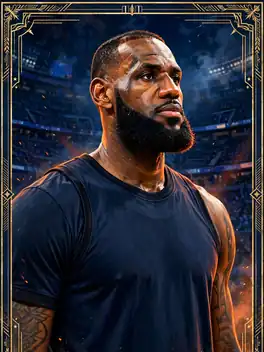
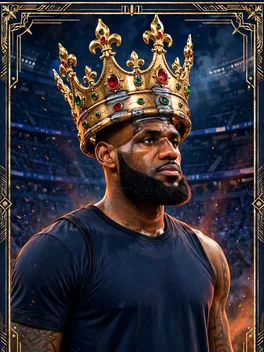
Rap sample v2.4: SSSS crowned LeBron (all 99, Geju 0), two Currys split (rookie A/65 + green S/Geju 100), fat rapper Zhang Chi, 4 new meme guests (Ikun, Ma Baoguo, AI itself, Auntie Liu), cameo events, opp bases +1 rebalance

diff --git a/rap-sample/rap_data.js b/rap-sample/rap_data.js
@@ -1,2 +1,2 @@
 // Generated by gen_data.py from Juxing 90-player pool. Do not hand-edit; edit gen_data.py.
-window.RAP_DATA = {"players": [{"name": "魔术师约翰逊", "team": "80年代队", "tier": "SS", "portrait": "por-00.webp", "note": "Showtime 发动机，传球天花板", "rap": [98, 72, 95, 90, 98, 90, 92, 92, 84, 94, 99, 85]}, {"name": "拉里·伯德", "team": "80年代队", "tier": "S", "portrait": "por-01.webp", "note": "全能锋线鼻祖，中投与球商双绝", "rap": [90, 90, 83, 86, 96, 82, 93, 80, 66, 84, 96, 78]}, {"name": "卡里姆·贾巴尔", "team": "80年代队", "tier": "S", "portrait": "por-02.webp", "note": "天勾，历史得分王底蕴", "rap": [82, 42, 69, 77, 89, 89, 90, 69, 83, 79, 93, 80]}, {"name": "伊塞亚·托马斯", "team": "80年代队", "tier": "A", "portrait": "por-03.webp", "note": "微笑刺客，小个控卫的硬度标杆", "rap": [87, 66, 89, 85, 87, 85, 83, 87, 68, 85, 87, 62]}, {"name": "朱利叶斯·欧文", "team": "80年代队", "tier": "A", "portrait": "por-04.webp", "note": "J 博士，飞翔美学的源头", "rap": [76, 50, 78, 78, 80, 84, 82, 82, 88, 84, 84, 76]}, {"name": "摩西·马龙", "team": "80年代队", "tier": "B", "portrait": "por-05.webp", "note": "篮板野兽，三届 MVP", "rap": [58, 30, 47, 62, 69, 82, 70, 54, 73, 68, 73, 70]}, {"name": "凯文·麦克海尔", "team": "80年代队", "tier": "B", "portrait": "por-06.webp", "note": "低位脚步教科书", "rap": [61, 30, 56, 66, 82, 78, 76, 57, 69, 64, 69, 72]}, {"name": "詹姆斯·沃西", "team": "80年代队", "tier": "B", "portrait": "por-07.webp", "note": "快攻终结点，眼镜蛇", "rap": [64, 38, 67, 67, 71, 76, 70, 72, 78, 72, 67, 74]}, {"name": "罗伯特·帕里什", "team": "80年代队", "tier": "B", "portrait": "por-08.webp", "note": "酋长，绿军铁三角的沉默中锋", "rap": [55, 30, 44, 58, 68, 79, 67, 47, 66, 57, 64, 72]}, {"name": "多米尼克·威尔金斯", "team": "80年代队", "tier": "B", "portrait": "por-09.webp", "note": "人类电影精华，扣篮与得分", "rap": [58, 52, 68, 66, 68, 76, 67, 72, 84, 69, 63, 70]}, {"name": "阿历克斯·英格利什", "team": "80年代队", "tier": "B", "portrait": "por-10.webp", "note": "得分机器，掘金队史标杆", "rap": [65, 41, 71, 67, 74, 78, 72, 72, 67, 70, 67, 73]}, {"name": "克里斯·穆林", "team": "80年代队", "tier": "B", "portrait": "por-11.webp", "note": "上帝左手，梦一队射手", "rap": [69, 81, 72, 74, 79, 77, 74, 71, 52, 69, 68, 76]}, {"name": "比尔·兰比尔", "team": "80年代队", "tier": "C", "portrait": "por-12.webp", "note": "坏小子军团的恶人，争议拉满型模板", "rap": [50, 38, 38, 51, 64, 69, 58, 34, 45, 44, 57, 38]}, {"name": "乔·杜马斯", "team": "80年代队", "tier": "C", "portrait": "por-13.webp", "note": "活塞冠军后场，攻防均衡", "rap": [64, 65, 70, 71, 72, 72, 70, 68, 50, 66, 67, 78]}, {"name": "拜伦·斯科特", "team": "80年代队", "tier": "C", "portrait": "por-14.webp", "note": "Showtime 的侧翼射手", "rap": [50, 68, 63, 59, 60, 70, 60, 64, 56, 58, 51, 72]}, {"name": "迈克尔·乔丹", "team": "90年代队", "tier": "SS", "portrait": "por-15.webp", "note": "篮球之神，全表标尺", "rap": [92, 81, 96, 96, 97, 97, 98, 98, 99, 98, 99, 72]}, {"name": "哈基姆·奥拉朱旺", "team": "90年代队", "tier": "S", "portrait": "por-16.webp", "note": "大梦脚步，封盖历史第一", "rap": [78, 44, 67, 86, 89, 87, 82, 70, 87, 80, 89, 80]}, {"name": "卡尔·马龙", "team": "90年代队", "tier": "S", "portrait": "por-17.webp", "note": "邮差，力量与铁人属性", "rap": [78, 33, 67, 78, 83, 94, 87, 74, 85, 84, 91, 58]}, {"name": "大卫·罗宾逊", "team": "90年代队", "tier": "A", "portrait": "por-18.webp", "note": "海军上将，全能中锋", "rap": [72, 30, 59, 74, 81, 85, 82, 65, 84, 77, 85, 82]}, {"name": "查尔斯·巴克利", "team": "90年代队", "tier": "A", "portrait": "por-19.webp", "note": "飞猪，矮个大前锋的极限", "rap": [77, 56, 74, 76, 80, 84, 80, 78, 84, 82, 84, 66]}, {"name": "约翰·斯托克顿", "team": "90年代队", "tier": "A", "portrait": "por-20.webp", "note": "助攻抢断双史一，控卫模板", "rap": [89, 79, 89, 91, 91, 87, 83, 85, 49, 82, 85, 82]}, {"name": "斯科蒂·皮蓬", "team": "90年代队", "tier": "A", "portrait": "por-21.webp", "note": "历史最强二当家，防守大闸", "rap": [78, 69, 79, 87, 85, 87, 78, 81, 83, 80, 79, 74]}, {"name": "帕特里克·尤因", "team": "90年代队", "tier": "B", "portrait": "por-22.webp", "note": "纽约中锋，无冕代表", "rap": [62, 30, 47, 62, 71, 76, 77, 52, 73, 66, 76, 70]}, {"name": "雷吉·米勒", "team": "90年代队", "tier": "C", "portrait": "por-23.webp", "note": "米勒时刻，三分与大心脏", "rap": [63, 97, 66, 62, 71, 74, 72, 68, 40, 70, 69, 68]}, {"name": "加里·佩顿", "team": "90年代队", "tier": "B", "portrait": "por-24.webp", "note": "手套，控卫防守天花板", "rap": [78, 59, 79, 79, 77, 81, 74, 76, 55, 76, 77, 60]}, {"name": "肖恩·坎普", "team": "90年代队", "tier": "B", "portrait": "por-25.webp", "note": "雨人，暴力扣篮的图腾", "rap": [49, 30, 47, 56, 60, 73, 58, 57, 82, 62, 56, 55]}, {"name": "阿伦佐·莫宁", "team": "90年代队", "tier": "C", "portrait": "por-26.webp", "note": "肾斗士，铁血封盖", "rap": [54, 30, 34, 54, 65, 70, 64, 42, 70, 60, 70, 76]}, {"name": "克莱德·德雷克斯勒", "team": "90年代队", "tier": "B", "portrait": "por-27.webp", "note": "滑翔机，80 年代末崛起、峰值多数在 90 年代", "rap": [70, 52, 74, 76, 77, 81, 74, 77, 81, 76, 72, 78]}, {"name": "迪肯贝·穆托姆博", "team": "90年代队", "tier": "B", "portrait": "por-28.webp", "note": "摇手指，四届最佳防守", "rap": [44, 30, 30, 48, 58, 69, 49, 30, 58, 44, 56, 82]}, {"name": "蒂姆·哈达威", "team": "90年代队", "tier": "C", "portrait": "por-29.webp", "note": "变向鼻祖，胯下运球招牌", "rap": [65, 66, 71, 65, 66, 69, 64, 71, 40, 66, 61, 64]}, {"name": "沙奎尔·奥尼尔", "team": "00年代队", "tier": "S", "portrait": "por-30.webp", "note": "最具统治力中锋，扣篮与力量顶点", "rap": [81, 78, 85, 74, 86, 84, 93, 85, 98, 97, 95, 80]}, {"name": "科比·布莱恩特", "team": "00年代队", "tier": "S", "portrait": "por-31.webp", "note": "曼巴，中投与意志的图腾", "rap": [86, 84, 91, 88, 93, 95, 92, 92, 90, 91, 94, 62]}, {"name": "蒂姆·邓肯", "team": "00年代队", "tier": "S", "portrait": "por-32.webp", "note": "石佛，大基本功", "rap": [84, 34, 74, 82, 92, 87, 88, 74, 80, 81, 92, 84]}, {"name": "凯文·加内特", "team": "00年代队", "tier": "S", "portrait": "por-33.webp", "note": "狼王，全能大前与防守体系", "rap": [88, 52, 77, 86, 89, 93, 90, 78, 86, 86, 97, 64]}, {"name": "德克·诺维茨基", "team": "00年代队", "tier": "A", "portrait": "por-34.webp", "note": "金鸡独立，峰值窗口优先于国籍归队", "rap": [73, 81, 71, 70, 83, 79, 84, 69, 61, 74, 83, 83]}, {"name": "阿伦·艾弗森", "team": "00年代队", "tier": "A", "portrait": "por-35.webp", "note": "答案，小个得分手的神", "rap": [80, 72, 97, 93, 80, 88, 90, 98, 68, 95, 84, 58]}, {"name": "德怀恩·韦德", "team": "00年代队", "tier": "A", "portrait": "por-36.webp", "note": "闪电侠，2006 总决赛封神", "rap": [79, 62, 84, 81, 82, 84, 83, 86, 82, 86, 86, 80]}, {"name": "特雷西·麦克格雷迪", "team": "00年代队", "tier": "A", "portrait": "por-37.webp", "note": "35 秒 13 分，干拔美学", "rap": [76, 79, 85, 77, 81, 77, 82, 85, 87, 81, 79, 70]}, {"name": "保罗·皮尔斯", "team": "00年代队", "tier": "B", "portrait": "por-38.webp", "note": "真理，凯尔特人队魂", "rap": [76, 76, 79, 74, 81, 81, 83, 79, 68, 81, 83, 68]}, {"name": "阿玛雷·斯塔德迈尔", "team": "00年代队", "tier": "B", "portrait": "por-39.webp", "note": "小霸王，暴力终结型内线", "rap": [52, 30, 52, 56, 63, 74, 64, 62, 83, 66, 59, 62]}, {"name": "文斯·卡特", "team": "00年代队", "tier": "B", "portrait": "por-40.webp", "note": "半人半神，扣篮绝活顶格", "rap": [56, 61, 65, 58, 63, 68, 64, 68, 98, 64, 59, 76]}, {"name": "贾森·基德", "team": "00年代队", "tier": "B", "portrait": "por-41.webp", "note": "组织大师，三双型控卫", "rap": [78, 65, 78, 79, 80, 78, 72, 74, 51, 74, 76, 72]}, {"name": "雷·阿伦", "team": "00年代队", "tier": "B", "portrait": "por-42.webp", "note": "三分绝活位，历史级射手", "rap": [66, 98, 71, 66, 73, 80, 74, 71, 56, 70, 69, 82]}, {"name": "克里斯·波什", "team": "00年代队", "tier": "C", "portrait": "por-43.webp", "note": "龙王锚点，空间型内线", "rap": [56, 57, 55, 57, 69, 72, 68, 58, 67, 62, 62, 76]}, {"name": "本·华莱士", "team": "00年代队", "tier": "A", "portrait": "por-44.webp", "note": "大本，4 届最佳防守球员，防守型模板", "rap": [60, 30, 43, 71, 75, 85, 60, 44, 69, 59, 75, 74]}, {"name": "勒布朗·詹姆斯", "team": "10年代队", "tier": "SS", "portrait": "por-45.webp", "note": "全能皇帝，峰值窗口官方范例", "rap": [98, 83, 94, 92, 99, 99, 92, 96, 97, 98, 99, 84]}, {"name": "斯蒂芬·库里", "team": "10年代队", "tier": "SS", "portrait": "por-108.webp", "note": "三分革命本人，头发先绿为敬", "rap": [90, 99, 95, 88, 94, 89, 92, 92, 62, 90, 95, 99]}, {"name": "凯文·杜兰特", "team": "10年代队", "tier": "A", "portrait": "por-47.webp", "note": "死神，无差别单打", "rap": [81, 87, 85, 78, 85, 85, 87, 86, 83, 86, 85, 66]}, {"name": "科怀·伦纳德", "team": "10年代队", "tier": "A", "portrait": "por-48.webp", "note": "机器人，两冠两 FMVP 的攻防一体", "rap": [74, 78, 78, 86, 84, 80, 81, 80, 78, 80, 80, 70]}, {"name": "詹姆斯·哈登", "team": "10年代队", "tier": "A", "portrait": "por-49.webp", "note": "大胡子，持球大核心打法开创者", "rap": [84, 84, 90, 80, 86, 84, 81, 90, 72, 85, 82, 60]}, {"name": "拉塞尔·威斯布鲁克", "team": "10年代队", "tier": "A", "portrait": "por-50.webp", "note": "三双机器，能量与争议并存", "rap": [82, 63, 85, 75, 75, 91, 77, 88, 89, 84, 79, 62]}, {"name": "克里斯·保罗", "team": "10年代队", "tier": "S", "portrait": "por-51.webp", "note": "控卫之神，组织与中投", "rap": [92, 83, 94, 92, 94, 85, 91, 90, 62, 88, 94, 72]}, {"name": "卡梅隆·安东尼", "team": "10年代队", "tier": "B", "portrait": "por-52.webp", "note": "甜瓜，进攻万花筒", "rap": [66, 73, 73, 62, 73, 73, 78, 76, 71, 76, 75, 68]}, {"name": "德里克·罗斯", "team": "10年代队", "tier": "A", "portrait": "por-53.webp", "note": "风城玫瑰，2011 MVP 锚点，巅峰定值、体能短板真实写", "rap": [71, 61, 83, 71, 77, 65, 78, 85, 81, 82, 79, 78]}, {"name": "凯里·欧文", "team": "10年代队", "tier": "B", "portrait": "por-54.webp", "note": "运球与终结美学", "rap": [64, 74, 82, 64, 70, 68, 68, 78, 63, 68, 61, 56]}, {"name": "达米安·利拉德", "team": "10年代队", "tier": "B", "portrait": "por-55.webp", "note": "表哥，超远三分与绝杀", "rap": [92, 94, 96, 97, 97, 90, 92, 94, 88, 92, 88, 80]}, {"name": "吉米·巴特勒", "team": "10年代队", "tier": "B", "portrait": "por-56.webp", "note": "硬汉，季后赛档位自动 +1 的男人", "rap": [74, 56, 71, 78, 78, 80, 76, 74, 71, 78, 80, 66]}, {"name": "克莱·汤普森", "team": "10年代队", "tier": "C", "portrait": "por-57.webp", "note": "G6 汤，三分与无球防守", "rap": [52, 95, 60, 63, 64, 69, 62, 58, 43, 56, 55, 80]}, {"name": "德雷蒙德·格林", "team": "10年代队", "tier": "C", "portrait": "por-58.webp", "note": "追梦，勇士体系轴心（争议型模板）", "rap": [67, 42, 56, 70, 73, 68, 58, 52, 47, 58, 66, 45]}, {"name": "凯文·乐福", "team": "10年代队", "tier": "C", "portrait": "por-59.webp", "note": "两双机器，骑士冠军拼图", "rap": [62, 68, 51, 52, 68, 65, 66, 52, 48, 58, 63, 74]}, {"name": "尼古拉·约基奇", "team": "新世代队", "tier": "SS", "portrait": "por-60.webp", "note": "约老师，中锋组织学革命", "rap": [93, 84, 88, 86, 97, 88, 90, 82, 74, 82, 93, 78]}, {"name": "维克托·文班亚马", "team": "新世代队", "tier": "S", "portrait": "por-61.webp", "note": "外星人，潜力签·窗口未关闭", "rap": [72, 77, 70, 75, 82, 79, 76, 72, 86, 72, 76, 72]}, {"name": "扬尼斯·阿德托昆博", "team": "新世代队", "tier": "S", "portrait": "por-62.webp", "note": "字母哥，转换进攻的终极形态", "rap": [86, 64, 85, 82, 87, 93, 82, 90, 94, 92, 93, 80]}, {"name": "卢卡·东契奇", "team": "新世代队", "tier": "S", "portrait": "por-63.webp", "note": "持球大核现役版", "rap": [92, 88, 93, 82, 91, 83, 88, 91, 69, 89, 93, 70]}, {"name": "谢伊·吉尔杰斯-亚历山大", "team": "新世代队", "tier": "A", "portrait": "por-64.webp", "note": "SGA，中距离与造犯规的现代答案", "rap": [75, 69, 83, 80, 83, 81, 83, 83, 71, 81, 81, 76]}, {"name": "杰森·塔图姆", "team": "新世代队", "tier": "B", "portrait": "por-65.webp", "note": "獭兔，冠军锋线", "rap": [76, 79, 77, 72, 79, 81, 81, 79, 72, 81, 81, 74]}, {"name": "乔尔·恩比德", "team": "新世代队", "tier": "B", "portrait": "por-66.webp", "note": "大帝，健康条即战力的玻璃模板（体能短板显著）", "rap": [66, 65, 61, 64, 76, 61, 77, 66, 74, 72, 74, 60]}, {"name": "安东尼·爱德华兹", "team": "新世代队", "tier": "A", "portrait": "por-67.webp", "note": "华子，新生代门面", "rap": [73, 79, 81, 75, 75, 85, 79, 85, 89, 83, 79, 68]}, {"name": "安东尼·戴维斯", "team": "新世代队", "tier": "A", "portrait": "por-68.webp", "note": "浓眉，攻防一体内线", "rap": [72, 56, 64, 73, 80, 74, 81, 70, 82, 79, 84, 72]}, {"name": "泰雷斯·哈利伯顿", "team": "新世代队", "tier": "B", "portrait": "por-69.webp", "note": "传球魔术的现役传人", "rap": [72, 75, 77, 72, 77, 72, 68, 74, 53, 69, 66, 78]}, {"name": "杰伦·布伦森", "team": "新世代队", "tier": "B", "portrait": "por-70.webp", "note": "大头，纽约新王", "rap": [74, 70, 77, 66, 75, 77, 77, 78, 50, 78, 77, 76]}, {"name": "德文·布克", "team": "新世代队", "tier": "B", "portrait": "por-71.webp", "note": "得分后卫正统", "rap": [67, 77, 75, 64, 72, 75, 74, 76, 68, 72, 68, 70]}, {"name": "多诺万·米切尔", "team": "新世代队", "tier": "B", "portrait": "por-72.webp", "note": "蜘蛛侠，季后赛爆发户", "rap": [66, 76, 76, 66, 71, 78, 72, 78, 80, 74, 67, 72]}, {"name": "贾马尔·穆雷", "team": "新世代队", "tier": "C", "portrait": "por-73.webp", "note": "季后赛限定变身型模板", "rap": [64, 71, 69, 62, 69, 66, 68, 70, 59, 68, 64, 74]}, {"name": "卡尔-安东尼·唐斯", "team": "新世代队", "tier": "C", "portrait": "por-74.webp", "note": "空间型内线，防守是短板", "rap": [54, 71, 54, 50, 64, 69, 63, 56, 66, 58, 57, 68]}, {"name": "姚明", "team": "国际纵队", "tier": "A", "portrait": "por-75.webp", "note": "移动长城，中国篮球的图腾", "rap": [75, 30, 56, 69, 86, 70, 84, 55, 80, 68, 84, 83]}, {"name": "史蒂夫·纳什", "team": "国际纵队", "tier": "SS", "portrait": "por-76.webp", "note": "风之子，两连 MVP 的组织上限", "rap": [94, 94, 97, 84, 97, 85, 92, 91, 51, 88, 94, 84]}, {"name": "马努·吉诺比利", "team": "国际纵队", "tier": "A", "portrait": "por-77.webp", "note": "妖刀，第六人位置的传奇模板", "rap": [85, 80, 88, 85, 90, 80, 83, 88, 78, 86, 86, 82]}, {"name": "保罗·加索尔", "team": "国际纵队", "tier": "A", "portrait": "por-78.webp", "note": "家嫂，策应型内线", "rap": [80, 52, 68, 72, 86, 78, 82, 67, 72, 73, 82, 80]}, {"name": "托尼·帕克", "team": "国际纵队", "tier": "A", "portrait": "por-79.webp", "note": "法国跑车，总决赛 MVP 控卫", "rap": [78, 56, 82, 72, 80, 80, 78, 84, 54, 81, 78, 76]}, {"name": "德拉岑·彼得罗维奇", "team": "国际纵队", "tier": "A", "portrait": "por-80.webp", "note": "篮球莫扎特，英年早逝的传奇", "rap": [73, 86, 80, 72, 82, 76, 80, 79, 52, 76, 76, 74]}, {"name": "马克·加索尔", "team": "国际纵队", "tier": "B", "portrait": "por-81.webp", "note": "小加，防守中枢＋策应", "rap": [75, 57, 59, 70, 83, 72, 74, 58, 61, 66, 74, 78]}, {"name": "王治郅", "team": "国际纵队", "tier": "C", "portrait": "por-82.webp", "note": "大郅，中国登陆 NBA 第一人，脚步内线", "rap": [46, 57, 47, 48, 62, 59, 60, 51, 50, 52, 50, 76]}, {"name": "易建联", "team": "国际纵队", "tier": "C", "portrait": "por-83.webp", "note": "阿联，空间型大前，中国男篮旗帜十年", "rap": [48, 58, 48, 53, 65, 70, 62, 56, 72, 60, 55, 78]}, {"name": "阿维达斯·萨博尼斯", "team": "国际纵队", "tier": "C", "portrait": "por-84.webp", "note": "老萨，世界屋脊的传球中锋", "rap": [69, 47, 45, 57, 74, 57, 66, 48, 57, 56, 62, 72]}, {"name": "路易斯·斯科拉", "team": "国际纵队", "tier": "C", "portrait": "por-85.webp", "note": "钻石，阿根廷黄金一代的轴", "rap": [55, 30, 49, 59, 71, 66, 66, 54, 54, 59, 59, 78]}, {"name": "安德烈·基里连科", "team": "国际纵队", "tier": "C", "portrait": "por-86.webp", "note": "AK47，全能防守的瑞士军刀", "rap": [56, 39, 61, 72, 68, 70, 56, 62, 65, 58, 53, 70]}, {"name": "佩德拉格·斯托亚科维奇", "team": "国际纵队", "tier": "C", "portrait": "por-87.webp", "note": "佩贾，纯射手位", "rap": [50, 73, 56, 54, 63, 63, 61, 55, 35, 52, 51, 74]}, {"name": "鲍里斯·迪奥", "team": "国际纵队", "tier": "C", "portrait": "por-88.webp", "note": "法国魔术师，什么都能打一点", "rap": [58, 46, 61, 57, 68, 61, 54, 58, 44, 52, 51, 76]}, {"name": "孙悦", "team": "国际纵队", "tier": "C", "portrait": "por-89.webp", "note": "孙大圣，中国后卫的 NBA 冠军戒指（话题型模板）", "rap": [52, 49, 61, 60, 58, 66, 52, 61, 63, 55, 49, 72]}, {"name": "奥斯卡·罗伯特森", "team": "60年代队", "tier": "S", "portrait": "por-90.webp", "note": "大O，三双鼻祖", "rap": [94, 55, 92, 87, 96, 90, 90, 90, 72, 90, 96, 74]}, {"name": "杰里·韦斯特", "team": "60年代队", "tier": "S", "portrait": "por-91.webp", "note": "Logo本人，关键先生", "rap": [89, 68, 88, 88, 95, 88, 92, 86, 62, 88, 94, 80]}, {"name": "丹尼斯·罗德曼", "team": "90年代队", "tier": "A", "portrait": "por-92.webp", "note": "大虫，篮板与花活之王", "rap": [55, 30, 50, 65, 70, 96, 50, 52, 92, 95, 57, 40]}, {"name": "比尔·拉塞尔", "team": "60年代队", "tier": "SS", "portrait": "por-93.webp", "note": "指环王，团队至上", "rap": [85, 30, 55, 83, 96, 90, 79, 58, 80, 79, 99, 84]}, {"name": "威尔特·张伯伦", "team": "60年代队", "tier": "SS", "portrait": "por-94.webp", "note": "单场100分，数据怪兽", "rap": [80, 30, 60, 72, 85, 99, 75, 68, 95, 80, 89, 62]}, {"name": "克里斯·韦伯", "team": "00年代队", "tier": "A", "portrait": "por-95.webp", "note": "国王华丽大前，传球内线", "rap": [84, 55, 75, 80, 90, 82, 81, 75, 85, 78, 82, 70]}, {"name": "德怀特·霍华德", "team": "00年代队", "tier": "S", "portrait": "por-96.webp", "note": "魔兽，快乐与统治力", "rap": [65, 30, 50, 68, 75, 90, 62, 60, 97, 90, 79, 72]}, {"name": "拉简·隆多", "team": "00年代队", "tier": "A", "portrait": "por-97.webp", "note": "隆指导，大脑型控卫", "rap": [84, 55, 90, 91, 97, 82, 68, 84, 55, 75, 74, 55]}, {"name": "特雷·杨", "team": "新世代队", "tier": "A", "portrait": "por-98.webp", "note": "吹杨，超远三分与挑衅", "rap": [84, 88, 90, 72, 85, 78, 78, 88, 50, 88, 77, 64]}, {"name": "贾·莫兰特", "team": "新世代队", "tier": "A", "portrait": "por-99.webp", "note": "腰王，飞天遁地", "rap": [76, 68, 90, 72, 80, 85, 70, 92, 96, 82, 72, 42]}, {"name": "杰伦·布朗", "team": "新世代队", "tier": "S", "portrait": "por-100.webp", "note": "FMVP，攻防一体", "rap": [77, 78, 80, 82, 85, 90, 82, 84, 88, 85, 86, 78]}, {"name": "锡安·威廉姆森", "team": "新世代队", "tier": "A", "portrait": "por-101.webp", "note": "胖虎，纯爆发", "rap": [71, 45, 75, 75, 80, 78, 68, 84, 99, 82, 74, 60]}, {"name": "泰瑞斯·马克西", "team": "新世代队", "tier": "A", "portrait": "por-102.webp", "note": "速度与笑容都拉满", "rap": [75, 80, 85, 76, 82, 88, 78, 88, 70, 82, 77, 76]}, {"name": "切特·霍姆格伦", "team": "新世代队", "tier": "B", "portrait": "por-103.webp", "note": "瘦长护筐，文班的老对手", "rap": [68, 72, 65, 72, 85, 76, 72, 65, 80, 68, 70, 72]}, {"name": "保罗·班凯罗", "team": "新世代队", "tier": "A", "portrait": "por-104.webp", "note": "状元锋线，全能身手", "rap": [78, 62, 78, 76, 86, 85, 78, 82, 82, 82, 80, 74]}, {"name": "周琦", "team": "国际纵队", "tier": "B", "portrait": "por-105.webp", "note": "大魔王", "rap": [58, 55, 45, 61, 72, 70, 65, 48, 75, 58, 65, 68]}, {"name": "杨瀚森", "team": "国际纵队", "tier": "B", "portrait": "por-106.webp", "note": "中国新星内线，传球有灵气", "rap": [73, 60, 60, 68, 82, 72, 69, 58, 70, 62, 68, 74]}, {"name": "曾凡博", "team": "国际纵队", "tier": "C", "portrait": "por-107.webp", "note": "追梦少年，锋线射手", "rap": [58, 72, 60, 66, 72, 75, 65, 62, 78, 62, 60, 72]}, {"name": "PG ONE", "team": "整活嘉宾队", "tier": "S", "portrait": "por-109.webp", "note": "冠军本冠。形象是助手瞎编的，严肃脸", "rap": [86, 70, 96, 94, 96, 88, 84, 94, 70, 90, 92, 36]}, {"name": "阿耶莎", "team": "整活嘉宾队", "tier": "A", "portrait": "por-110.webp", "note": "跨界嘉宾，厨艺是有证的，唱功是来凑热闹的", "rap": [72, 48, 55, 56, 72, 70, 70, 52, 35, 86, 90, 82]}, {"name": "假乃亮", "team": "整活嘉宾队", "tier": "A", "portrait": "por-111.webp", "note": "郑重声明：假的！和本人没关系，就是瞧着眼熟", "rap": [74, 55, 78, 62, 68, 80, 97, 88, 60, 78, 84, 48]}, {"name": "李小鹿", "team": "整活嘉宾队", "tier": "B", "portrait": "por-112.webp", "note": "一只鹿。别问，问就是李小鹿", "rap": [42, 32, 60, 58, 45, 95, 40, 72, 88, 78, 50, 66]}, {"name": "张驰", "team": "整活嘉宾队", "tier": "B", "portrait": "por-113.webp", "note": "一个不知名的rap手", "rap": [71, 60, 75, 68, 80, 78, 68, 72, 55, 84, 70, 58]}]};
+window.RAP_DATA = {"players": [{"name": "魔术师约翰逊", "team": "80年代队", "tier": "SS", "portrait": "por-00.webp", "note": "Showtime 发动机，传球天花板", "rap": [98, 72, 95, 90, 98, 90, 92, 92, 84, 94, 99, 85]}, {"name": "拉里·伯德", "team": "80年代队", "tier": "S", "portrait": "por-01.webp", "note": "全能锋线鼻祖，中投与球商双绝", "rap": [90, 90, 83, 86, 96, 82, 93, 80, 66, 84, 96, 78]}, {"name": "卡里姆·贾巴尔", "team": "80年代队", "tier": "S", "portrait": "por-02.webp", "note": "天勾，历史得分王底蕴", "rap": [82, 42, 69, 77, 89, 89, 90, 69, 83, 79, 93, 80]}, {"name": "伊塞亚·托马斯", "team": "80年代队", "tier": "A", "portrait": "por-03.webp", "note": "微笑刺客，小个控卫的硬度标杆", "rap": [87, 66, 89, 85, 87, 85, 83, 87, 68, 85, 87, 62]}, {"name": "朱利叶斯·欧文", "team": "80年代队", "tier": "A", "portrait": "por-04.webp", "note": "J 博士，飞翔美学的源头", "rap": [76, 50, 78, 78, 80, 84, 82, 82, 88, 84, 84, 76]}, {"name": "摩西·马龙", "team": "80年代队", "tier": "B", "portrait": "por-05.webp", "note": "篮板野兽，三届 MVP", "rap": [58, 30, 47, 62, 69, 82, 70, 54, 73, 68, 73, 70]}, {"name": "凯文·麦克海尔", "team": "80年代队", "tier": "B", "portrait": "por-06.webp", "note": "低位脚步教科书", "rap": [61, 30, 56, 66, 82, 78, 76, 57, 69, 64, 69, 72]}, {"name": "詹姆斯·沃西", "team": "80年代队", "tier": "B", "portrait": "por-07.webp", "note": "快攻终结点，眼镜蛇", "rap": [64, 38, 67, 67, 71, 76, 70, 72, 78, 72, 67, 74]}, {"name": "罗伯特·帕里什", "team": "80年代队", "tier": "B", "portrait": "por-08.webp", "note": "酋长，绿军铁三角的沉默中锋", "rap": [55, 30, 44, 58, 68, 79, 67, 47, 66, 57, 64, 72]}, {"name": "多米尼克·威尔金斯", "team": "80年代队", "tier": "B", "portrait": "por-09.webp", "note": "人类电影精华，扣篮与得分", "rap": [58, 52, 68, 66, 68, 76, 67, 72, 84, 69, 63, 70]}, {"name": "阿历克斯·英格利什", "team": "80年代队", "tier": "B", "portrait": "por-10.webp", "note": "得分机器，掘金队史标杆", "rap": [65, 41, 71, 67, 74, 78, 72, 72, 67, 70, 67, 73]}, {"name": "克里斯·穆林", "team": "80年代队", "tier": "B", "portrait": "por-11.webp", "note": "上帝左手，梦一队射手", "rap": [69, 81, 72, 74, 79, 77, 74, 71, 52, 69, 68, 76]}, {"name": "比尔·兰比尔", "team": "80年代队", "tier": "C", "portrait": "por-12.webp", "note": "坏小子军团的恶人，争议拉满型模板", "rap": [50, 38, 38, 51, 64, 69, 58, 34, 45, 44, 57, 38]}, {"name": "乔·杜马斯", "team": "80年代队", "tier": "C", "portrait": "por-13.webp", "note": "活塞冠军后场，攻防均衡", "rap": [64, 65, 70, 71, 72, 72, 70, 68, 50, 66, 67, 78]}, {"name": "拜伦·斯科特", "team": "80年代队", "tier": "C", "portrait": "por-14.webp", "note": "Showtime 的侧翼射手", "rap": [50, 68, 63, 59, 60, 70, 60, 64, 56, 58, 51, 72]}, {"name": "迈克尔·乔丹", "team": "90年代队", "tier": "SS", "portrait": "por-15.webp", "note": "篮球之神，全表标尺", "rap": [92, 81, 96, 96, 97, 97, 98, 98, 99, 98, 99, 72]}, {"name": "哈基姆·奥拉朱旺", "team": "90年代队", "tier": "S", "portrait": "por-16.webp", "note": "大梦脚步，封盖历史第一", "rap": [78, 44, 67, 86, 89, 87, 82, 70, 87, 80, 89, 80]}, {"name": "卡尔·马龙", "team": "90年代队", "tier": "S", "portrait": "por-17.webp", "note": "邮差，力量与铁人属性", "rap": [78, 33, 67, 78, 83, 94, 87, 74, 85, 84, 91, 58]}, {"name": "大卫·罗宾逊", "team": "90年代队", "tier": "A", "portrait": "por-18.webp", "note": "海军上将，全能中锋", "rap": [72, 30, 59, 74, 81, 85, 82, 65, 84, 77, 85, 82]}, {"name": "查尔斯·巴克利", "team": "90年代队", "tier": "A", "portrait": "por-19.webp", "note": "飞猪，矮个大前锋的极限", "rap": [77, 56, 74, 76, 80, 84, 80, 78, 84, 82, 84, 66]}, {"name": "约翰·斯托克顿", "team": "90年代队", "tier": "A", "portrait": "por-20.webp", "note": "助攻抢断双史一，控卫模板", "rap": [89, 79, 89, 91, 91, 87, 83, 85, 49, 82, 85, 82]}, {"name": "斯科蒂·皮蓬", "team": "90年代队", "tier": "A", "portrait": "por-21.webp", "note": "历史最强二当家，防守大闸", "rap": [78, 69, 79, 87, 85, 87, 78, 81, 83, 80, 79, 74]}, {"name": "帕特里克·尤因", "team": "90年代队", "tier": "B", "portrait": "por-22.webp", "note": "纽约中锋，无冕代表", "rap": [62, 30, 47, 62, 71, 76, 77, 52, 73, 66, 76, 70]}, {"name": "雷吉·米勒", "team": "90年代队", "tier": "C", "portrait": "por-23.webp", "note": "米勒时刻，三分与大心脏", "rap": [63, 97, 66, 62, 71, 74, 72, 68, 40, 70, 69, 68]}, {"name": "加里·佩顿", "team": "90年代队", "tier": "B", "portrait": "por-24.webp", "note": "手套，控卫防守天花板", "rap": [78, 59, 79, 79, 77, 81, 74, 76, 55, 76, 77, 60]}, {"name": "肖恩·坎普", "team": "90年代队", "tier": "B", "portrait": "por-25.webp", "note": "雨人，暴力扣篮的图腾", "rap": [49, 30, 47, 56, 60, 73, 58, 57, 82, 62, 56, 55]}, {"name": "阿伦佐·莫宁", "team": "90年代队", "tier": "C", "portrait": "por-26.webp", "note": "肾斗士，铁血封盖", "rap": [54, 30, 34, 54, 65, 70, 64, 42, 70, 60, 70, 76]}, {"name": "克莱德·德雷克斯勒", "team": "90年代队", "tier": "B", "portrait": "por-27.webp", "note": "滑翔机，80 年代末崛起、峰值多数在 90 年代", "rap": [70, 52, 74, 76, 77, 81, 74, 77, 81, 76, 72, 78]}, {"name": "迪肯贝·穆托姆博", "team": "90年代队", "tier": "B", "portrait": "por-28.webp", "note": "摇手指，四届最佳防守", "rap": [44, 30, 30, 48, 58, 69, 49, 30, 58, 44, 56, 82]}, {"name": "蒂姆·哈达威", "team": "90年代队", "tier": "C", "portrait": "por-29.webp", "note": "变向鼻祖，胯下运球招牌", "rap": [65, 66, 71, 65, 66, 69, 64, 71, 40, 66, 61, 64]}, {"name": "沙奎尔·奥尼尔", "team": "00年代队", "tier": "S", "portrait": "por-30.webp", "note": "最具统治力中锋，扣篮与力量顶点", "rap": [81, 78, 85, 74, 86, 84, 93, 85, 98, 97, 95, 80]}, {"name": "科比·布莱恩特", "team": "00年代队", "tier": "S", "portrait": "por-31.webp", "note": "曼巴，中投与意志的图腾", "rap": [86, 84, 91, 88, 93, 95, 92, 92, 90, 91, 94, 62]}, {"name": "蒂姆·邓肯", "team": "00年代队", "tier": "S", "portrait": "por-32.webp", "note": "石佛，大基本功", "rap": [84, 34, 74, 82, 92, 87, 88, 74, 80, 81, 92, 84]}, {"name": "凯文·加内特", "team": "00年代队", "tier": "S", "portrait": "por-33.webp", "note": "狼王，全能大前与防守体系", "rap": [88, 52, 77, 86, 89, 93, 90, 78, 86, 86, 97, 64]}, {"name": "德克·诺维茨基", "team": "00年代队", "tier": "A", "portrait": "por-34.webp", "note": "金鸡独立，峰值窗口优先于国籍归队", "rap": [73, 81, 71, 70, 83, 79, 84, 69, 61, 74, 83, 83]}, {"name": "阿伦·艾弗森", "team": "00年代队", "tier": "A", "portrait": "por-35.webp", "note": "答案，小个得分手的神", "rap": [80, 72, 97, 93, 80, 88, 90, 98, 68, 95, 84, 58]}, {"name": "德怀恩·韦德", "team": "00年代队", "tier": "A", "portrait": "por-36.webp", "note": "闪电侠，2006 总决赛封神", "rap": [79, 62, 84, 81, 82, 84, 83, 86, 82, 86, 86, 80]}, {"name": "特雷西·麦克格雷迪", "team": "00年代队", "tier": "A", "portrait": "por-37.webp", "note": "35 秒 13 分，干拔美学", "rap": [76, 79, 85, 77, 81, 77, 82, 85, 87, 81, 79, 70]}, {"name": "保罗·皮尔斯", "team": "00年代队", "tier": "B", "portrait": "por-38.webp", "note": "真理，凯尔特人队魂", "rap": [76, 76, 79, 74, 81, 81, 83, 79, 68, 81, 83, 68]}, {"name": "阿玛雷·斯塔德迈尔", "team": "00年代队", "tier": "B", "portrait": "por-39.webp", "note": "小霸王，暴力终结型内线", "rap": [52, 30, 52, 56, 63, 74, 64, 62, 83, 66, 59, 62]}, {"name": "文斯·卡特", "team": "00年代队", "tier": "B", "portrait": "por-40.webp", "note": "半人半神，扣篮绝活顶格", "rap": [56, 61, 65, 58, 63, 68, 64, 68, 98, 64, 59, 76]}, {"name": "贾森·基德", "team": "00年代队", "tier": "B", "portrait": "por-41.webp", "note": "组织大师，三双型控卫", "rap": [78, 65, 78, 79, 80, 78, 72, 74, 51, 74, 76, 72]}, {"name": "雷·阿伦", "team": "00年代队", "tier": "B", "portrait": "por-42.webp", "note": "三分绝活位，历史级射手", "rap": [66, 98, 71, 66, 73, 80, 74, 71, 56, 70, 69, 82]}, {"name": "克里斯·波什", "team": "00年代队", "tier": "C", "portrait": "por-43.webp", "note": "龙王锚点，空间型内线", "rap": [56, 57, 55, 57, 69, 72, 68, 58, 67, 62, 62, 76]}, {"name": "本·华莱士", "team": "00年代队", "tier": "A", "portrait": "por-44.webp", "note": "大本，4 届最佳防守球员，防守型模板", "rap": [60, 30, 43, 71, 75, 85, 60, 44, 69, 59, 75, 74]}, {"name": "勒布朗·詹姆斯", "team": "10年代队", "tier": "SSSS", "portrait": "por-45.webp", "note": "全能皇帝，皇冠是焊在头上的", "rap": [99, 99, 99, 99, 99, 99, 99, 99, 99, 99, 99, 0]}, {"name": "斯蒂芬·库里", "team": "10年代队", "tier": "A", "portrait": "por-114.webp", "note": "新秀库里。那会儿还是娃娃脸，脚踝也是真脆", "rap": [78, 90, 88, 80, 82, 82, 84, 90, 58, 84, 72, 65]}, {"name": "凯文·杜兰特", "team": "10年代队", "tier": "A", "portrait": "por-47.webp", "note": "死神，无差别单打", "rap": [81, 87, 85, 78, 85, 85, 87, 86, 83, 86, 85, 66]}, {"name": "科怀·伦纳德", "team": "10年代队", "tier": "A", "portrait": "por-48.webp", "note": "机器人，两冠两 FMVP 的攻防一体", "rap": [74, 78, 78, 86, 84, 80, 81, 80, 78, 80, 80, 70]}, {"name": "詹姆斯·哈登", "team": "10年代队", "tier": "A", "portrait": "por-49.webp", "note": "大胡子，持球大核心打法开创者", "rap": [84, 84, 90, 80, 86, 84, 81, 90, 72, 85, 82, 60]}, {"name": "拉塞尔·威斯布鲁克", "team": "10年代队", "tier": "A", "portrait": "por-50.webp", "note": "三双机器，能量与争议并存", "rap": [82, 63, 85, 75, 75, 91, 77, 88, 89, 84, 79, 62]}, {"name": "克里斯·保罗", "team": "10年代队", "tier": "S", "portrait": "por-51.webp", "note": "控卫之神，组织与中投", "rap": [92, 83, 94, 92, 94, 85, 91, 90, 62, 88, 94, 72]}, {"name": "卡梅隆·安东尼", "team": "10年代队", "tier": "B", "portrait": "por-52.webp", "note": "甜瓜，进攻万花筒", "rap": [66, 73, 73, 62, 73, 73, 78, 76, 71, 76, 75, 68]}, {"name": "德里克·罗斯", "team": "10年代队", "tier": "A", "portrait": "por-53.webp", "note": "风城玫瑰，2011 MVP 锚点，巅峰定值、体能短板真实写", "rap": [71, 61, 83, 71, 77, 65, 78, 85, 81, 82, 79, 78]}, {"name": "凯里·欧文", "team": "10年代队", "tier": "B", "portrait": "por-54.webp", "note": "运球与终结美学", "rap": [64, 74, 82, 64, 70, 68, 68, 78, 63, 68, 61, 56]}, {"name": "达米安·利拉德", "team": "10年代队", "tier": "B", "portrait": "por-55.webp", "note": "表哥，超远三分与绝杀", "rap": [92, 94, 96, 97, 97, 90, 92, 94, 88, 92, 88, 80]}, {"name": "吉米·巴特勒", "team": "10年代队", "tier": "B", "portrait": "por-56.webp", "note": "硬汉，季后赛档位自动 +1 的男人", "rap": [74, 56, 71, 78, 78, 80, 76, 74, 71, 78, 80, 66]}, {"name": "克莱·汤普森", "team": "10年代队", "tier": "C", "portrait": "por-57.webp", "note": "G6 汤，三分与无球防守", "rap": [52, 95, 60, 63, 64, 69, 62, 58, 43, 56, 55, 80]}, {"name": "德雷蒙德·格林", "team": "10年代队", "tier": "C", "portrait": "por-58.webp", "note": "追梦，勇士体系轴心（争议型模板）", "rap": [67, 42, 56, 70, 73, 68, 58, 52, 47, 58, 66, 45]}, {"name": "凯文·乐福", "team": "10年代队", "tier": "C", "portrait": "por-59.webp", "note": "两双机器，骑士冠军拼图", "rap": [62, 68, 51, 52, 68, 65, 66, 52, 48, 58, 63, 74]}, {"name": "尼古拉·约基奇", "team": "新世代队", "tier": "SS", "portrait": "por-60.webp", "note": "约老师，中锋组织学革命", "rap": [93, 84, 88, 86, 97, 88, 90, 82, 74, 82, 93, 78]}, {"name": "维克托·文班亚马", "team": "新世代队", "tier": "S", "portrait": "por-61.webp", "note": "外星人，潜力签·窗口未关闭", "rap": [72, 77, 70, 75, 82, 79, 76, 72, 86, 72, 76, 72]}, {"name": "扬尼斯·阿德托昆博", "team": "新世代队", "tier": "S", "portrait": "por-62.webp", "note": "字母哥，转换进攻的终极形态", "rap": [86, 64, 85, 82, 87, 93, 82, 90, 94, 92, 93, 80]}, {"name": "卢卡·东契奇", "team": "新世代队", "tier": "S", "portrait": "por-63.webp", "note": "持球大核现役版", "rap": [92, 88, 93, 82, 91, 83, 88, 91, 69, 89, 93, 70]}, {"name": "谢伊·吉尔杰斯-亚历山大", "team": "新世代队", "tier": "A", "portrait": "por-64.webp", "note": "SGA，中距离与造犯规的现代答案", "rap": [75, 69, 83, 80, 83, 81, 83, 83, 71, 81, 81, 76]}, {"name": "杰森·塔图姆", "team": "新世代队", "tier": "B", "portrait": "por-65.webp", "note": "獭兔，冠军锋线", "rap": [76, 79, 77, 72, 79, 81, 81, 79, 72, 81, 81, 74]}, {"name": "乔尔·恩比德", "team": "新世代队", "tier": "B", "portrait": "por-66.webp", "note": "大帝，健康条即战力的玻璃模板（体能短板显著）", "rap": [66, 65, 61, 64, 76, 61, 77, 66, 74, 72, 74, 60]}, {"name": "安东尼·爱德华兹", "team": "新世代队", "tier": "A", "portrait": "por-67.webp", "note": "华子，新生代门面", "rap": [73, 79, 81, 75, 75, 85, 79, 85, 89, 83, 79, 68]}, {"name": "安东尼·戴维斯", "team": "新世代队", "tier": "A", "portrait": "por-68.webp", "note": "浓眉，攻防一体内线", "rap": [72, 56, 64, 73, 80, 74, 81, 70, 82, 79, 84, 72]}, {"name": "泰雷斯·哈利伯顿", "team": "新世代队", "tier": "B", "portrait": "por-69.webp", "note": "传球魔术的现役传人", "rap": [72, 75, 77, 72, 77, 72, 68, 74, 53, 69, 66, 78]}, {"name": "杰伦·布伦森", "team": "新世代队", "tier": "B", "portrait": "por-70.webp", "note": "大头，纽约新王", "rap": [74, 70, 77, 66, 75, 77, 77, 78, 50, 78, 77, 76]}, {"name": "德文·布克", "team": "新世代队", "tier": "B", "portrait": "por-71.webp", "note": "得分后卫正统", "rap": [67, 77, 75, 64, 72, 75, 74, 76, 68, 72, 68, 70]}, {"name": "多诺万·米切尔", "team": "新世代队", "tier": "B", "portrait": "por-72.webp", "note": "蜘蛛侠，季后赛爆发户", "rap": [66, 76, 76, 66, 71, 78, 72, 78, 80, 74, 67, 72]}, {"name": "贾马尔·穆雷", "team": "新世代队", "tier": "C", "portrait": "por-73.webp", "note": "季后赛限定变身型模板", "rap": [64, 71, 69, 62, 69, 66, 68, 70, 59, 68, 64, 74]}, {"name": "卡尔-安东尼·唐斯", "team": "新世代队", "tier": "C", "portrait": "por-74.webp", "note": "空间型内线，防守是短板", "rap": [54, 71, 54, 50, 64, 69, 63, 56, 66, 58, 57, 68]}, {"name": "姚明", "team": "国际纵队", "tier": "A", "portrait": "por-75.webp", "note": "移动长城，中国篮球的图腾", "rap": [75, 30, 56, 69, 86, 70, 84, 55, 80, 68, 84, 83]}, {"name": "史蒂夫·纳什", "team": "国际纵队", "tier": "SS", "portrait": "por-76.webp", "note": "风之子，两连 MVP 的组织上限", "rap": [94, 94, 97, 84, 97, 85, 92, 91, 51, 88, 94, 84]}, {"name": "马努·吉诺比利", "team": "国际纵队", "tier": "A", "portrait": "por-77.webp", "note": "妖刀，第六人位置的传奇模板", "rap": [85, 80, 88, 85, 90, 80, 83, 88, 78, 86, 86, 82]}, {"name": "保罗·加索尔", "team": "国际纵队", "tier": "A", "portrait": "por-78.webp", "note": "家嫂，策应型内线", "rap": [80, 52, 68, 72, 86, 78, 82, 67, 72, 73, 82, 80]}, {"name": "托尼·帕克", "team": "国际纵队", "tier": "A", "portrait": "por-79.webp", "note": "法国跑车，总决赛 MVP 控卫", "rap": [78, 56, 82, 72, 80, 80, 78, 84, 54, 81, 78, 76]}, {"name": "德拉岑·彼得罗维奇", "team": "国际纵队", "tier": "A", "portrait": "por-80.webp", "note": "篮球莫扎特，英年早逝的传奇", "rap": [73, 86, 80, 72, 82, 76, 80, 79, 52, 76, 76, 74]}, {"name": "马克·加索尔", "team": "国际纵队", "tier": "B", "portrait": "por-81.webp", "note": "小加，防守中枢＋策应", "rap": [75, 57, 59, 70, 83, 72, 74, 58, 61, 66, 74, 78]}, {"name": "王治郅", "team": "国际纵队", "tier": "C", "portrait": "por-82.webp", "note": "大郅，中国登陆 NBA 第一人，脚步内线", "rap": [46, 57, 47, 48, 62, 59, 60, 51, 50, 52, 50, 76]}, {"name": "易建联", "team": "国际纵队", "tier": "C", "portrait": "por-83.webp", "note": "阿联，空间型大前，中国男篮旗帜十年", "rap": [48, 58, 48, 53, 65, 70, 62, 56, 72, 60, 55, 78]}, {"name": "阿维达斯·萨博尼斯", "team": "国际纵队", "tier": "C", "portrait": "por-84.webp", "note": "老萨，世界屋脊的传球中锋", "rap": [69, 47, 45, 57, 74, 57, 66, 48, 57, 56, 62, 72]}, {"name": "路易斯·斯科拉", "team": "国际纵队", "tier": "C", "portrait": "por-85.webp", "note": "钻石，阿根廷黄金一代的轴", "rap": [55, 30, 49, 59, 71, 66, 66, 54, 54, 59, 59, 78]}, {"name": "安德烈·基里连科", "team": "国际纵队", "tier": "C", "portrait": "por-86.webp", "note": "AK47，全能防守的瑞士军刀", "rap": [56, 39, 61, 72, 68, 70, 56, 62, 65, 58, 53, 70]}, {"name": "佩德拉格·斯托亚科维奇", "team": "国际纵队", "tier": "C", "portrait": "por-87.webp", "note": "佩贾，纯射手位", "rap": [50, 73, 56, 54, 63, 63, 61, 55, 35, 52, 51, 74]}, {"name": "鲍里斯·迪奥", "team": "国际纵队", "tier": "C", "portrait": "por-88.webp", "note": "法国魔术师，什么都能打一点", "rap": [58, 46, 61, 57, 68, 61, 54, 58, 44, 52, 51, 76]}, {"name": "孙悦", "team": "国际纵队", "tier": "C", "portrait": "por-89.webp", "note": "孙大圣，中国后卫的 NBA 冠军戒指（话题型模板）", "rap": [52, 49, 61, 60, 58, 66, 52, 61, 63, 55, 49, 72]}, {"name": "奥斯卡·罗伯特森", "team": "60年代队", "tier": "S", "portrait": "por-90.webp", "note": "大O，三双鼻祖", "rap": [94, 55, 92, 87, 96, 90, 90, 90, 72, 90, 96, 74]}, {"name": "杰里·韦斯特", "team": "60年代队", "tier": "S", "portrait": "por-91.webp", "note": "Logo本人，关键先生", "rap": [89, 68, 88, 88, 95, 88, 92, 86, 62, 88, 94, 80]}, {"name": "丹尼斯·罗德曼", "team": "90年代队", "tier": "A", "portrait": "por-92.webp", "note": "大虫，篮板与花活之王", "rap": [55, 30, 50, 65, 70, 96, 50, 52, 92, 95, 57, 40]}, {"name": "比尔·拉塞尔", "team": "60年代队", "tier": "SS", "portrait": "por-93.webp", "note": "指环王，团队至上", "rap": [85, 30, 55, 83, 96, 90, 79, 58, 80, 79, 99, 84]}, {"name": "威尔特·张伯伦", "team": "60年代队", "tier": "SS", "portrait": "por-94.webp", "note": "单场100分，数据怪兽", "rap": [80, 30, 60, 72, 85, 99, 75, 68, 95, 80, 89, 62]}, {"name": "克里斯·韦伯", "team": "00年代队", "tier": "A", "portrait": "por-95.webp", "note": "国王华丽大前，传球内线", "rap": [84, 55, 75, 80, 90, 82, 81, 75, 85, 78, 82, 70]}, {"name": "德怀特·霍华德", "team": "00年代队", "tier": "S", "portrait": "por-96.webp", "note": "魔兽，快乐与统治力", "rap": [65, 30, 50, 68, 75, 90, 62, 60, 97, 90, 79, 72]}, {"name": "拉简·隆多", "team": "00年代队", "tier": "A", "portrait": "por-97.webp", "note": "隆指导，大脑型控卫", "rap": [84, 55, 90, 91, 97, 82, 68, 84, 55, 75, 74, 55]}, {"name": "特雷·杨", "team": "新世代队", "tier": "A", "portrait": "por-98.webp", "note": "吹杨，超远三分与挑衅", "rap": [84, 88, 90, 72, 85, 78, 78, 88, 50, 88, 77, 64]}, {"name": "贾·莫兰特", "team": "新世代队", "tier": "A", "portrait": "por-99.webp", "note": "腰王，飞天遁地", "rap": [76, 68, 90, 72, 80, 85, 70, 92, 96, 82, 72, 42]}, {"name": "杰伦·布朗", "team": "新世代队", "tier": "S", "portrait": "por-100.webp", "note": "FMVP，攻防一体", "rap": [77, 78, 80, 82, 85, 90, 82, 84, 88, 85, 86, 78]}, {"name": "锡安·威廉姆森", "team": "新世代队", "tier": "A", "portrait": "por-101.webp", "note": "胖虎，纯爆发", "rap": [71, 45, 75, 75, 80, 78, 68, 84, 99, 82, 74, 60]}, {"name": "泰瑞斯·马克西", "team": "新世代队", "tier": "A", "portrait": "por-102.webp", "note": "速度与笑容都拉满", "rap": [75, 80, 85, 76, 82, 88, 78, 88, 70, 82, 77, 76]}, {"name": "切特·霍姆格伦", "team": "新世代队", "tier": "B", "portrait": "por-103.webp", "note": "瘦长护筐，文班的老对手", "rap": [68, 72, 65, 72, 85, 76, 72, 65, 80, 68, 70, 72]}, {"name": "保罗·班凯罗", "team": "新世代队", "tier": "A", "portrait": "por-104.webp", "note": "状元锋线，全能身手", "rap": [78, 62, 78, 76, 86, 85, 78, 82, 82, 82, 80, 74]}, {"name": "周琦", "team": "国际纵队", "tier": "B", "portrait": "por-105.webp", "note": "大魔王", "rap": [58, 55, 45, 61, 72, 70, 65, 48, 75, 58, 65, 68]}, {"name": "杨瀚森", "team": "国际纵队", "tier": "B", "portrait": "por-106.webp", "note": "中国新星内线，传球有灵气", "rap": [73, 60, 60, 68, 82, 72, 69, 58, 70, 62, 68, 74]}, {"name": "曾凡博", "team": "国际纵队", "tier": "C", "portrait": "por-107.webp", "note": "追梦少年，锋线射手", "rap": [58, 72, 60, 66, 72, 75, 65, 62, 78, 62, 60, 72]}, {"name": "绿发库里", "team": "整活嘉宾队", "tier": "S", "portrait": "por-108.webp", "note": "头发先绿为敬，格局直接拉满——全场唯一 100", "rap": [94, 99, 94, 92, 95, 88, 94, 91, 62, 92, 99, 100]}, {"name": "蔡徐坤", "team": "整活嘉宾队", "tier": "A", "portrait": "por-115.webp", "note": "唱、跳、Rap、篮球。他是真练过篮球的", "rap": [75, 88, 92, 62, 75, 85, 80, 88, 60, 95, 82, 55]}, {"name": "马保国", "team": "整活嘉宾队", "tier": "B", "portrait": "por-116.webp", "note": "太极大师跨界参赛。接、化、发，年轻人要讲武德", "rap": [55, 40, 50, 74, 60, 70, 50, 96, 55, 62, 65, 42]}, {"name": "AI 本人", "team": "整活嘉宾队", "tier": "A", "portrait": "por-117.webp", "note": "它说它什么都会，就是没感情", "rap": [50, 94, 50, 50, 99, 50, 50, 50, 50, 30, 88, 50]}, {"name": "刘大妈", "team": "整活嘉宾队", "tier": "B", "portrait": "por-118.webp", "note": "小区广场舞队队长，体能深不见底", "rap": [72, 45, 65, 58, 70, 99, 68, 60, 40, 70, 85, 84]}, {"name": "PG ONE", "team": "整活嘉宾队", "tier": "S", "portrait": "por-109.webp", "note": "冠军本冠。形象是助手瞎编的，严肃脸", "rap": [86, 70, 96, 94, 96, 88, 84, 94, 70, 90, 92, 36]}, {"name": "阿耶莎", "team": "整活嘉宾队", "tier": "A", "portrait": "por-110.webp", "note": "跨界嘉宾，厨艺是有证的，唱功是来凑热闹的", "rap": [72, 48, 55, 56, 72, 70, 70, 52, 35, 86, 90, 82]}, {"name": "假乃亮", "team": "整活嘉宾队", "tier": "A", "portrait": "por-111.webp", "note": "郑重声明：假的！和本人没关系，就是瞧着眼熟", "rap": [74, 55, 78, 62, 68, 80, 97, 88, 60, 78, 84, 48]}, {"name": "李小鹿", "team": "整活嘉宾队", "tier": "B", "portrait": "por-112.webp", "note": "一只鹿。别问，问就是李小鹿", "rap": [42, 32, 60, 58, 45, 95, 40, 72, 88, 78, 50, 66]}, {"name": "张驰", "team": "整活嘉宾队", "tier": "B", "portrait": "por-113.webp", "note": "一个不知名的rap手", "rap": [71, 60, 75, 68, 80, 78, 68, 72, 55, 84, 70, 58]}]};

diff --git a/rap-sample/index.html b/rap-sample/index.html
@@ -59,6 +59,8 @@
   @keyframes pop { 0%{transform:scale(.96)} 60%{transform:scale(1.02)} 100%{transform:scale(1)} }
   .pcard.gold { border:2px solid #c9a227; background:linear-gradient(135deg,#fff8dc,#f7e08a 55%,#fff3c4); }
   .pcard.gold img { box-shadow:0 0 0 2px #c9a227, 0 0 10px rgba(201,162,39,.75); }
+  .pcard.king { border-width:3px; }
+  .pcard.king img { box-shadow:0 0 0 3px #c9a227, 0 0 16px rgba(201,162,39,.95); }
   .pcard.gold::after { content:''; position:absolute; top:-60%; left:-90%; width:45%; height:220%; background:linear-gradient(100deg,transparent,rgba(255,255,255,.55),transparent); transform:rotate(20deg); animation:shine 2.8s ease-in-out infinite; pointer-events:none; }
   @keyframes shine { 0%{left:-90%} 55%{left:140%} 100%{left:140%} }
   .pcard.epic { border-color:#7b4bb7; background:#f6efff; }
@@ -126,7 +128,7 @@
   function render(){
     if(S.phase === 'intro'){
       app.innerHTML = header() +
-        '<div class="card"><b>怎么玩</b><br><span style="font-size:13px;line-height:1.8;color:#6b5a44">12 轮选人，每轮从 5 位球星里挑 1 人、夺走他的一项能力。<b>选过的人不会再出现</b>，每一次出手都要算好。S 级以上是<b style="color:#b8860b">金卡「传说」</b>，出场自带闪光，看见金卡先抢再说。候选里偶尔还会混进一些……奇奇怪怪的嘉宾。夺满后打 3 回合 Battle：每回合先选打法（用你最硬的那一面打），回合之间还有现场插曲要你拿主意。<br>小提示：有一项能力，有个人是 <b style="color:#b3352c">99</b>，全场没人够得着。看见他，别手软。</span></div>' +
+        '<div class="card"><b>怎么玩</b><br><span style="font-size:13px;line-height:1.8;color:#6b5a44">12 轮选人，每轮从 5 位球星里挑 1 人、夺走他的一项能力。<b>选过的人不会再出现</b>，每一次出手都要算好。S 级以上是<b style="color:#b8860b">金卡「传说」</b>，出场自带闪光，看见金卡先抢再说。候选里偶尔还会混进一些……奇奇怪怪的嘉宾。夺满后打 3 回合 Battle：每回合先选打法（用你最硬的那一面打），回合之间还有现场插曲要你拿主意。<br>小提示：有一项能力，绿发库里是 <b style="color:#b3352c">100</b>，全场没人够得着。看见他，别手软。</span></div>' +
         '<div class="card">' + slotsHTML() + '</div>' +
         '<button class="btn" id="b-start">开始拼人</button>' +
         '<div class="foot">内部小样 · 不计榜单 · 玩完说一句好不好玩就行</div>';
@@ -138,6 +140,7 @@
   }
   function tierClass(p){
     if(p.team === '整活嘉宾队' && p.tier !== 'SS' && p.tier !== 'S') return 'guest';
+    if(p.tier === 'SSSS') return 'gold king';
     if(p.tier === 'SS' || p.tier === 'S') return 'gold';
     if(p.tier === 'A') return 'epic';
     if(p.tier === 'B') return 'rare';
@@ -145,12 +148,13 @@
   }
   function tierBadge(p){
     var c = tierClass(p);
+    if(p.tier === 'SSSS') return '<span class="badge g">SSSS 👑</span>';
     if(c === 'gold') return '<span class="badge g">传说</span>';
     if(c === 'epic') return '<span class="badge e">史诗</span>';
     if(c === 'guest') return '<span class="badge gu">整活</span>';
     return '';
   }
-  var QUIPS = { '斯蒂芬·库里':'他来了——头发是绿的，格局是满的。', 'PG ONE':'？？？候选里混进来一个真唱的', '阿耶莎':'？？？她怎么也来了（手里还拿着菜谱）', '假乃亮':'郑重声明：这位是假的，和本人没关系', '李小鹿':'？？？候选里混进了一只鹿', '张驰':'甲方本人亲自下场了，这把得给他个面子' };
+  var QUIPS = { '绿发库里':'他来了——头发是绿的，格局是满的（100）。', '斯蒂芬·库里':'新秀库里来了，娃娃脸一个，但那投篮的手稳得不像新人', '蔡徐坤':'唱跳嘉宾空降，全场目光都被他和他的球吸走了', '马保国':'马老师来了！全场起立——他说要教对面做人', 'AI 本人':'它来了。它说它已经把你的韵脚全算完了', '刘大妈':'大妈带着她的音响来了，气势上已经赢了一半', '勒布朗·詹姆斯':'SSSS 驾到！全维 99 满分——格局那格，你就当没看见', 'PG ONE':'？？？候选里混进来一个真唱的', '阿耶莎':'？？？她怎么也来了（手里还拿着菜谱）', '假乃亮':'郑重声明：这位是假的，和本人没关系', '李小鹿':'？？？候选里混进了一只鹿', '张驰':'甲方本人亲自下场了，这把得给他个面子' };
   function renderDraft(){
     var h = header() + '<div class="prog">第 <span>' + (S.draftIdx+1) + '</span> / 12 轮夺技 · 还剩换一批 <span>' + S.swaps + '</span> 次</div>';
     h += '<div class="card">' + slotsHTML() + '</div>';
@@ -159,8 +163,8 @@
     if(quip) h += '<div class="hint">' + quip + '</div>';
     if(S.sel >= 0){
       var p = PLAYERS[S.options[S.sel]];
-      if(p.name === '斯蒂芬·库里' && S.attrs[11] === null){
-        h += '<div class="hint">格局 · 99 —— 这一项，全场没人够得着。</div>';
+      if(p.name === '绿发库里' && S.attrs[11] === null){
+        h += '<div class="hint">格局 · 100 —— 这一项，全场没人够得着。</div>';
       }
       h += '<div class="detail"><div class="dt">' + p.name + tierBadge(p) + ' · 点一项能力夺走（夺走后他不会再出现）</div><div class="dims">';
       for(var i=0;i<12;i++){
@@ -248,7 +252,8 @@
           S.bonusNext = 0;
           var bi = S.battleIdx;
           S.battleIdx++;
-          var evIdx = RAP_CONFIG.events.findIndex(function(e){ return e.after === bi; });
+          var evPool = RAP_CONFIG.events.map(function(e,i){ return e.after === bi ? i : -1; }).filter(function(i){ return i >= 0; });
+          var evIdx = evPool.length ? evPool[Math.floor(rng() * evPool.length)] : -1;
           if(evIdx >= 0 && S.battleIdx < RAP_CONFIG.battles.length) S.eventPending = evIdx;
           if(S.battleIdx >= RAP_CONFIG.battles.length && S.eventPending < 0) S.phase = 'end';
           save(); render();
@@ -261,8 +266,8 @@
   function renderEnd(){
     var e = RAP_CONFIG.endings.filter(function(x){ return x.wins === S.wins; })[0];
     var h = header() + '<div class="card"><div class="sub" style="margin-bottom:2px">三回合战绩 ' + S.wins + ' 胜 · 总评 ' + RapFormulas.total(S.attrs) + '</div><div class="end-name">' + e.name + '</div><div class="sub">' + e.desc + '</div>' + slotsHTML() + '</div>';
-    if(S.src[11] === '斯蒂芬·库里'){
-      h += '<div class="hint">你抢到了格局 99——决胜回合的秘密武器，被你拿到了。</div>';
+    if(S.src[11] === '绿发库里'){
+      h += '<div class="hint">你抢到了格局 100——决胜回合的秘密武器，被你拿到了。</div>';
     }
     h += '<button class="btn" id="b-again">再来一局</button><div class="foot">截图这张结算，发回去说一句：好玩 / 一般 / 没意思<br>你的反馈决定这个模式做不做下去</div>';
     app.innerHTML = h;

diff --git a/rap-sample/rap_config.js b/rap-sample/rap_config.js
@@ -5,19 +5,19 @@ var RAP_CONFIG = {
   draftOptions: 5,
   swapsPerGame: 3,
   battles: [
-    { name: '第一回合 · 天桥底下即兴场', oppName: '天桥艺术家联队', oppBase: 95, desc: '没有剧本，没有提词器，连音响都是借的。选个打法，开麦——用最离谱的那一面打。',
+    { name: '第一回合 · 天桥底下即兴场', oppName: '天桥艺术家联队', oppBase: 96, desc: '没有剧本，没有提词器，连音响都是借的。选个打法，开麦——用最离谱的那一面打。',
       tactics: [
         { name: '张嘴就来', desc: '只比即兴 · 词还在路上，嘴先到了', dims: [7], swing: 16, oppMod: 0 },
         { name: '踩着拍子遛弯', desc: '比 Flow＋控场 · 不慌，主打一个松弛', dims: [2, 0], swing: 7, oppMod: 0 },
         { name: '开场先吓他一跳', desc: '比 爆发＋感染力 · 气势这一块拿捏了', dims: [8, 9], swing: 10, oppMod: 1 }
       ] },
-    { name: '第二回合 · 棚里见真章', oppName: '录音棚常驻大神', oppBase: 97, desc: '进了棚就没滤镜了。词、准、密，总得占一样——一样都不占的话，当我没说。',
+    { name: '第二回合 · 棚里见真章', oppName: '录音棚常驻大神', oppBase: 98, desc: '进了棚就没滤镜了。词、准、密，总得占一样——一样都不占的话，当我没说。',
       tactics: [
         { name: '把词怼他脸上', desc: '只比填词 · 波动大，字字带刺', dims: [4], swing: 16, oppMod: 0 },
         { name: '一个音都不许飘', desc: '比 音准＋声线 · 稳得像开了修音，但其实没开', dims: [1, 6], swing: 7, oppMod: 0 },
         { name: '嘴皮子开连发', desc: '比 押韵＋气息 · 一口气下去，听的人先喘', dims: [3, 5], swing: 10, oppMod: 1 }
       ] },
-    { name: '决胜回合 · 格局之夜', oppName: '胡同口下棋大爷联队', oppBase: 85, desc: '最后一场不比技术了。大爷们棋盘一推：年轻人，就看你稳不稳得住。',
+    { name: '决胜回合 · 格局之夜', oppName: '胡同口下棋大爷联队', oppBase: 86, desc: '最后一场不比技术了。大爷们棋盘一推：年轻人，就看你稳不稳得住。',
       tactics: [
         { name: '只拼格局', desc: '只比格局 · 你懂的', dims: [11], swing: 8, oppMod: 0 },
         { name: '走心局', desc: '比 格局＋人气 · 不飙高音，专攻眼眶', dims: [11, 10], swing: 8, oppMod: 2 },
@@ -30,6 +30,18 @@ var RAP_CONFIG = {
         { name: '当场开麦回怼', desc: '比 人气＋感染力 · 成了下一回合 +4，砸了 -4', dims: [10, 9], threshold: 84, win: 4, lose: -4 },
         { name: '已读乱回', desc: '不比 · 回他一个表情包，下一回合稳稳 +1', dims: null, threshold: 0, win: 1, lose: 1 },
         { name: '把麦递给队友', desc: '比 控场 · 成了下一回合 +3，砸了 0（队友背锅）', dims: [0], threshold: 80, win: 3, lose: 0 }
+      ] },
+    { after: 0, title: '中场插曲 · 坤坤在后台练球', text: '后台化妆间，蔡徐坤正对着镜子练运球，球感居然意外地丝滑。他抬头问你：要不要切磋一下唱跳？',
+      choices: [
+        { name: '跟他学两招唱跳', desc: '比 感染力 · 成了下一回合 +4，砸了 -2（学劈叉了）', dims: [9], threshold: 82, win: 4, lose: -2 },
+        { name: '约他打一场球', desc: '比 爆发 · 成了下一回合 +3，砸了 0（友谊第一）', dims: [8], threshold: 84, win: 3, lose: 0 },
+        { name: '默默走开练声', desc: '不比 · 下一回合 +1（专注的人最帅）', dims: null, threshold: 0, win: 1, lose: 1 }
+      ] },
+    { after: 1, title: '决胜前夜 · 马老师要跟你切磋', text: '马保国老师不知从哪冒出来，说年轻人不讲武德，要跟你「切磋切磋」。他已经摆好了接化发的架势。',
+      choices: [
+        { name: '接化发！', desc: '比 即兴 · 成了决胜回合 +5，砸了 -3（被化走了）', dims: [7], threshold: 84, win: 5, lose: -3 },
+        { name: '双手抱拳，认个怂', desc: '比 格局 · 成了决胜回合 +4，砸了 +1（能屈能伸）', dims: [11], threshold: 76, win: 4, lose: 1 },
+        { name: '请他先吃块排骨', desc: '不比 · 决胜回合 +2（化干戈为排骨）', dims: null, threshold: 0, win: 2, lose: 2 }
       ] },
     { after: 1, title: '决胜前夜 · 你妈来电话了', text: '决胜前夜，你妈打来电话：「赢不赢无所谓，唱完早点回来，锅里给你留了排骨。」你的手，突然就不抖了。',
       choices: [
